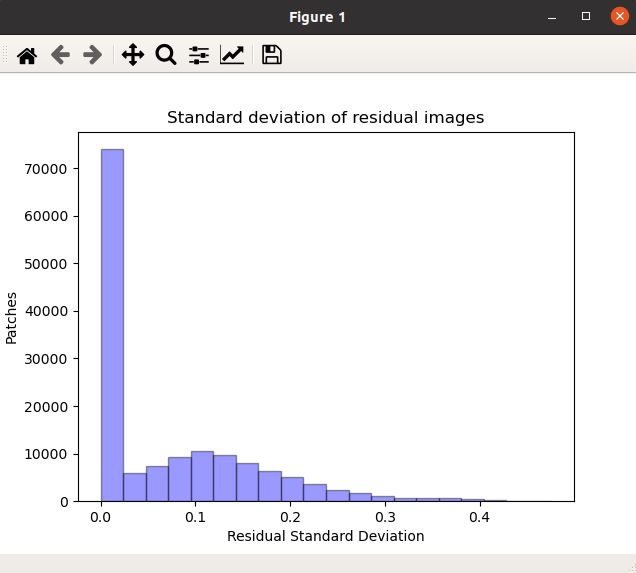
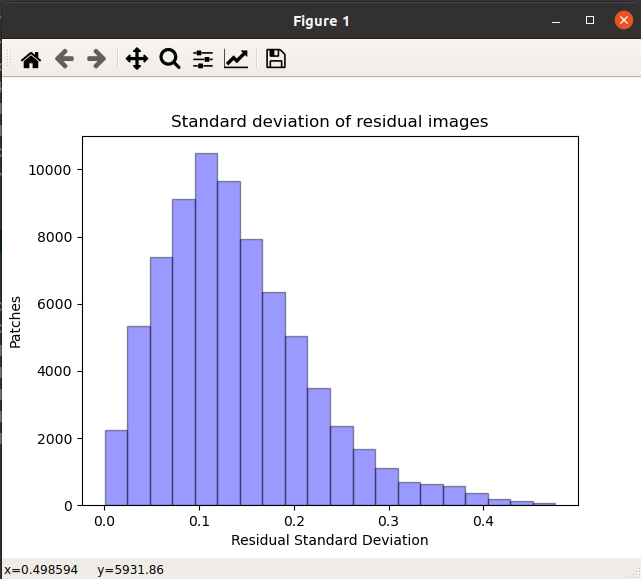
Adding lots of training processes and data generation stuff, mainly for gathering residual standard deviations alongside image patches

diff --git a/keras_implementation/utilities/data_generator.py b/keras_implementation/utilities/data_generator.py
@@ -14,13 +14,20 @@ batch_size = 128
 
 
 class ImageType(Enum):
-    """An Enumerator representing a Clear Image and a Blurry Image"""
+    """An Enum representing a Clear Image and a Blurry Image"""
     CLEARIMAGE = 1
     BLURRYIMAGE = 2
 
 
+class NoiseLevel(Enum):
+    """An Enum representing Low, Medium, or High Noise level"""
+    LOW = 1
+    MEDIUM = 2
+    HIGH = 3
+
+
 class ImageFormat(Enum):
-    """An Enumerator representing whether an image is a JPG image or a PNG image"""
+    """An Enum representing whether an image is a JPG image or a PNG image"""
     JPG = 1
     PNG = 2
 
@@ -127,7 +134,7 @@ def generate_patches_from_file_name(file_name):
     return generate_patches(image)
 
 
-def generate_patches(image, image_type):
+def generate_patches_old(image, image_type):
     """
     Generates and returns a list of image patches from an input image
 
@@ -163,7 +170,8 @@ def generate_patches(image, image_type):
     return patches
 
 
-def generate_patches_and_stds(clear_image, blurry_image):
+def generate_patch_pairs(clear_image, blurry_image, noise_level=NoiseLevel.LOW, low_noise_threshold=0.05,
+                         high_noise_threshold=1.5):
     """
     Generates and returns a list of image patches from an input image
 
@@ -171,6 +179,15 @@ def generate_patches_and_stds(clear_image, blurry_image):
     :type clear_image: numpy array
     :param blurry_image: The blurry image to generate patches from
     :type blurry_image: numpy array
+    :param noise_level: The noise level of the data that we want
+    :type noise_level: float
+    :param low_noise_threshold: The lower residual image standard deviation threshold used to determine which data
+                                should go to which network
+    :type low_noise_threshold: float
+    :param high_noise_threshold: The upper residual image standard deviation threshold used to determine which data
+                                should go to which network
+    :type high_noise_threshold: float
+
 
     :return: (clear_patches, blurry_patches): A tuple of a list of ImagePatches.
                 Each ImagePatch in the list of ImagePatches contains an image patch and the standard deviation
@@ -187,9 +204,6 @@ def generate_patches_and_stds(clear_image, blurry_image):
     # Store the patches in a list
     clear_patches = []
     blurry_patches = []
-
-    # Store the stds in a list
-    stds = []
 
     # For each scale
     for scale in scales:
@@ -208,15 +222,37 @@ def generate_patches_and_stds(clear_image, blurry_image):
                 clear_patch = clear_image_scaled[i:i + patch_size, j:j + patch_size]
                 blurry_patch = blurry_image_scaled[i:i + patch_size, j:j + patch_size]
 
-                # Get the standard deviation of the residual between the two blocks
-                std = get_residual_std(clear_patch=clear_patch, blurry_patch=blurry_patch)
-
-                # Add clear_patch and blurry_patch to clear_patches blurry_patches, and add std to stds
+                # Add the clear_patch and blurry_patch to clear_patches and blurry_patches, respectively
                 clear_patches.append(clear_patch)
                 blurry_patches.append(blurry_patch)
-                stds.append(std)
 
-    return clear_patches, blurry_patches, stds
+                # Get the standard deviation of the residual between the two blocks
+                # std = get_residual_std(clear_patch=clear_patch, blurry_patch=blurry_patch)
+
+                # # Skip this patch preemptively if it's black (max pixel value is < 10)
+                # if np.max(clear_patch) < 10:
+                #     continue
+                #
+                # # Add the patches to the list depending upon whether they are the proper noise level
+                # if noise_level == NoiseLevel.LOW and std < low_noise_threshold:
+                #     # Add clear_patch and blurry_patch to clear_patches and blurry_patches
+                #     clear_patches.append(clear_patch)
+                #     blurry_patches.append(blurry_patch)
+                #     # continue
+                #
+                # elif noise_level == NoiseLevel.MEDIUM and low_noise_threshold < std < high_noise_threshold:
+                #     # Add clear_patch and blurry_patch to clear_patches and blurry_patches
+                #     clear_patches.append(clear_patch)
+                #     blurry_patches.append(blurry_patch)
+                #     # continue
+                #
+                # elif noise_level == NoiseLevel.HIGH and std > high_noise_threshold:
+                #     # Add clear_patch and blurry_patch to clear_patches and blurry_patches
+                #     clear_patches.append(clear_patch)
+                #     blurry_patches.append(blurry_patch)
+                #     # continue
+
+    return clear_patches, blurry_patches
 
 
 def generate_augmented_patches(image):
@@ -289,8 +325,26 @@ def generate_augmented_patches_from_file_name(file_name):
     return generate_augmented_patches(image)
 
 
+def separate_images_and_stds(patches_and_stds):
+    """
+    Separates a numpy array of image patches and residual standard deviations
+    into separate numpy arrays of patches and standard deviations, respectively
+
+    :param patches_and_stds: 2D Numpy array of image patches and stds, where patches are the first
+                                column of the array, and stds are the second column of the array
+
+    :return: (patches, stds): a numpy array of image patches and a numpy array of residual stds
+    :rtype: tuple
+    """
+    # Get patches and stds
+    patches = patches_and_stds[:, 0]
+    stds = patches_and_stds[:, 1]
+    return patches, stds
+
+
 def pair_data_generator(root_dir=join('data', 'Volume1', 'train'),
-                        image_format=ImageFormat.PNG):
+                        image_format=ImageFormat.PNG,
+                        noise_level=NoiseLevel.LOW):
     """
     Provides a numpy array of training examples, given a path to a training directory
 
@@ -298,6 +352,8 @@ def pair_data_generator(root_dir=join('data', 'Volume1', 'train'),
     :type image_format: ImageFormat
     :param root_dir: The path of the training data directory
     :type root_dir: str
+    :param noise_level: The level of noise of the training data that we want
+    :type noise_level: NoiseLevel
 
     :return: training data
     :rtype: numpy.array
@@ -317,7 +373,6 @@ def pair_data_generator(root_dir=join('data', 'Volume1', 'train'),
     # initialize clear_data and clurry_data lists
     clear_data = []
     blurry_data = []
-    std_data = []
 
     # Iterate over the entire list of images
     for i, file_name in enumerate(os.listdir(clear_image_dir)):
@@ -339,18 +394,17 @@ def pair_data_generator(root_dir=join('data', 'Volume1', 'train'),
 
             # Generate clear and blurry patches from the clear and blurry images, respectively...
             # AND record the residual std in each of clear_patches and blurry_patches
-            clear_patches, blurry_patches, stds = generate_patches_and_stds(clear_image=clear_image,
-                                                                            blurry_image=blurry_image)
+            clear_patches, blurry_patches = generate_patch_pairs(clear_image=clear_image,
+                                                                 blurry_image=blurry_image,
+                                                                 noise_level=noise_level)
 
             # Append the patches to clear_data and blurry_data
             clear_data.append(clear_patches)
             blurry_data.append(blurry_patches)
-            std_data.append(stds)
 
-    # Convert clear_data and blurry_data to numpy arrays of ints, and std_data to a numpy array of floats
+    # Convert clear_data and blurry_data to numpy arrays of ints
     clear_data = np.array(clear_data, dtype='uint8')
     blurry_data = np.array(blurry_data, dtype='uint8')
-    std_data = np.array(std_data, dtype='float32')
 
     # Reshape clear_data, blurry_data, and std_data
     clear_data = clear_data.reshape((clear_data.shape[0] * clear_data.shape[1],
@@ -361,7 +415,6 @@ def pair_data_generator(root_dir=join('data', 'Volume1', 'train'),
                                        blurry_data.shape[2],
                                        blurry_data.shape[3],
                                        1))
-    std_data = std_data.reshape((std_data.shape[0] * std_data.shape[1]))
 
     # Get the number of elements to discard
     num_elements_to_discard = len(clear_data) - len(clear_data) // batch_size * batch_size
@@ -373,7 +426,7 @@ def pair_data_generator(root_dir=join('data', 'Volume1', 'train'),
     clear_data = np.delete(clear_data, range(num_elements_to_discard), axis=0)
     blurry_data = np.delete(blurry_data, range(num_elements_to_discard), axis=0)
 
-    return clear_data, blurry_data, std_data
+    return clear_data, blurry_data
 
 
 if __name__ == '__main__':

diff --git a/keras_implementation/train.py b/keras_implementation/train.py
@@ -10,10 +10,7 @@ import numpy as np
 from keras.models import load_model
 from keras.callbacks import CSVLogger, ModelCheckpoint, LearningRateScheduler, EarlyStopping
 from keras.optimizers import Adam
-import keras_implementation.utilities.data_generator as data_generator
-import keras_implementation.utilities.logger as logger
-import keras_implementation.utilities.model_functions as model_functions
-import keras_implementation.utilities.image_utils as image_utils
+from keras_implementation.utilities import data_generator, logger, model_functions, image_utils
 import keras.backend as K
 
 import tensorflow as tf
@@ -90,7 +87,8 @@ def lr_schedule(epoch):
     return lr
 
 
-def my_train_datagen(epoch_iter=2000, num_epochs=5, batch_size=128, data_dir=args.train_data):
+def my_train_datagen(epoch_iter=2000, num_epochs=5, batch_size=128, data_dir=args.train_data,
+                     noise_level=data_generator.NoiseLevel.LOW):
     """
     Generator function that yields training data samples from a specified data directory
 
@@ -98,6 +96,9 @@ def my_train_datagen(epoch_iter=2000, num_epochs=5, batch_size=128, data_dir=arg
     :param num_epochs: The total number of epochs
     :param batch_size: The number of training examples for each training iteration
     :param data_dir: The directory in which training examples are stored
+    :param noise_level: The level of noise of the training data that we want
+    :type noise_level: NoiseLevel
+
     :return: Yields a training example x and noisey image y
     """
     # Loop the following indefinitely...
@@ -110,10 +111,12 @@ def my_train_datagen(epoch_iter=2000, num_epochs=5, batch_size=128, data_dir=arg
             print(f'Accessing training data in: {data_dir}')
 
             # Get training examples from data_dir using data_generator
-            x_original, y_original, stds = data_generator.pair_data_generator(data_dir)
+            x_original, y_original = data_generator.pair_data_generator(data_dir, noise_level)
 
-            # Plot the standard deviations
-            image_utils.plot_standard_deviations(stds)
+            pass
+
+            # Plot the residual standard deviation
+            # image_utils.plot_standard_deviations(stds)
 
             # Assert that the last iteration has a full batch size
             assert len(x_original) % args.batch_size == 0, \

diff --git a/keras_implementation/utilities/image_utils.py b/keras_implementation/utilities/image_utils.py
@@ -274,20 +274,6 @@ def plot_standard_deviations(stds):
     plt.show()
 
 
-def plot_patch(patch):
-    """
-    Takes an image patch and plots it using matplotlib
-
-    :param patch: Image patch
-    :type patch: numpy array
-
-    :return: None
-    """
-
-    # Show the image using cv2 TODO: fix documentation here
-    logger.show_images([("patch", patch)])
-
-
 def get_residual(clear_image, blurry_image):
     """
     Calculate the residual (difference) between a blurry image and a
